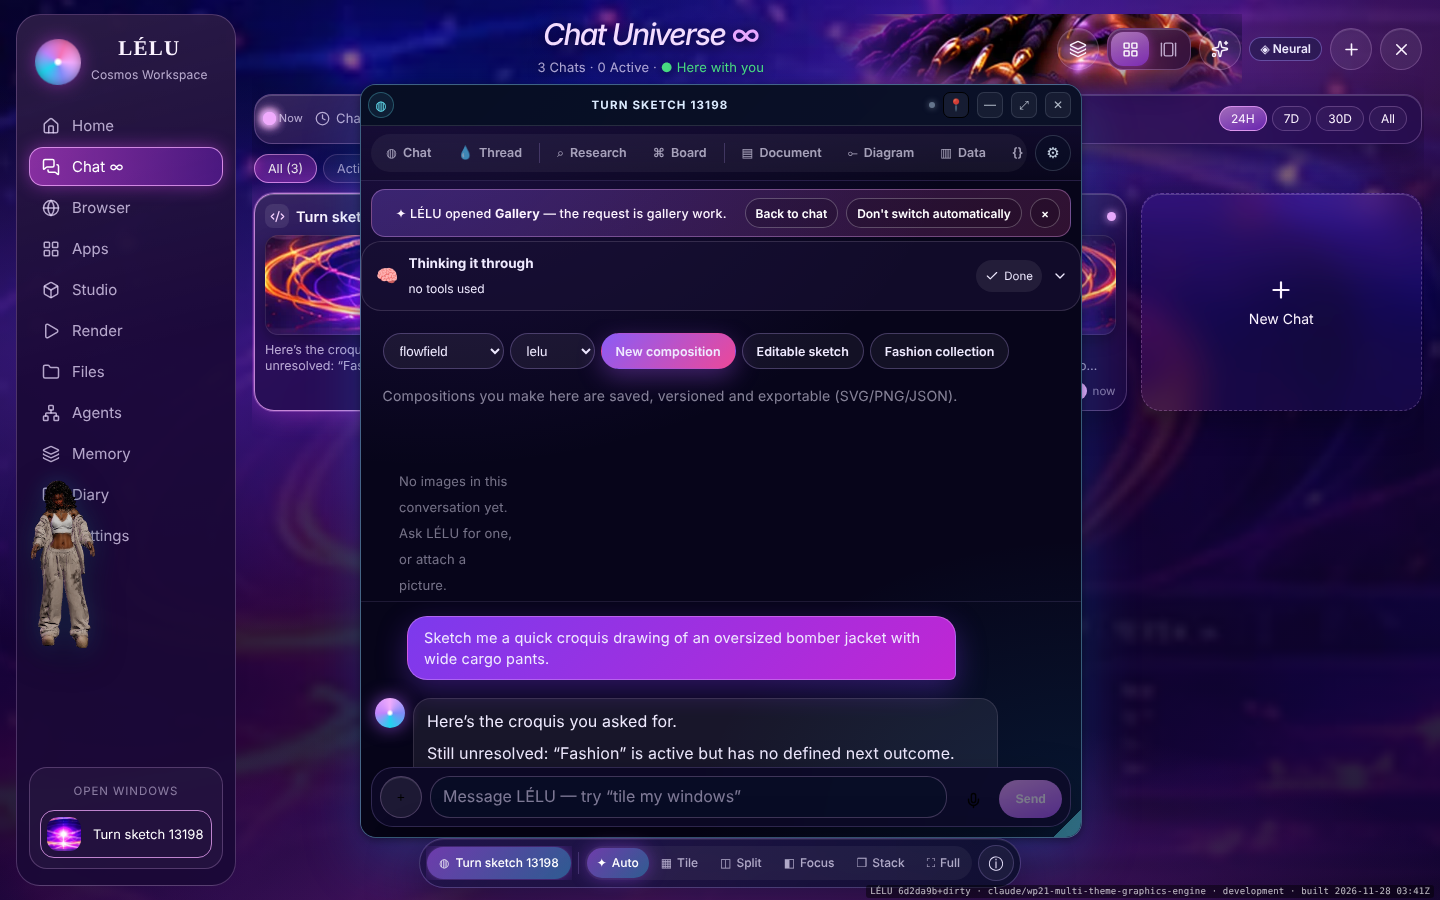
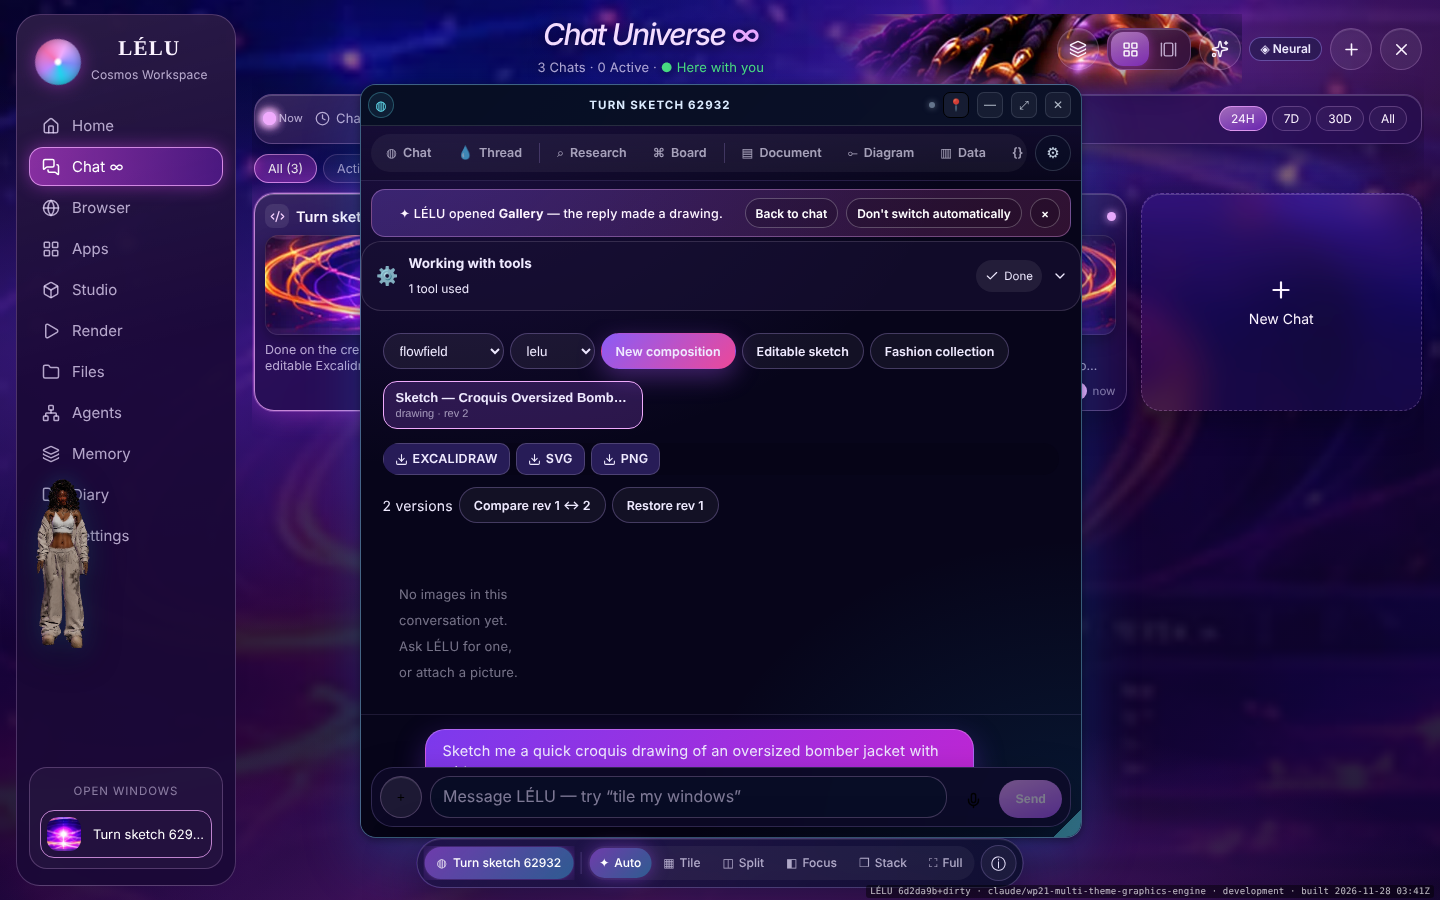
Sketches draw the garments that were asked for
The direct sketch was a fixed three-dress line-up whatever the request,
so 'a croquis of an oversized bomber jacket with wide cargo pants' gave
three dresses. It now draws one figure, front and back, with the
garments named: a boxy bomber with dropped shoulders, zip and rib hem, a
bralette, wide cargo pants with pockets and a stacked hem, or a skirt.
Rendered through the real drawing export (render-sketch.mjs).

Claude-Session: https://claude.ai/code/session_017r5V6N97c4ksPFc1eZj1j6

diff --git a/src/core/creative/kit/DirectCompiler.ts b/src/core/creative/kit/DirectCompiler.ts
@@ -101,12 +101,50 @@ const LELU_ARCHITECTURE = `flowchart LR
   spend["Spend policy: zero paid use without consent"] -.-> broker`;
 
 function sketchElements(subject: string): Array<Record<string, unknown>> {
-  const fashion = /\b(dress|gown|fashion|garment|outfit|couture|look|collection|jacket|coat|skirt)\b/i.test(subject);
+  const fashion = /\b(dress|gown|fashion|garment|outfit|couture|look|collection|jacket|coat|skirt|bomber|trousers|pants|bralette)\b/i.test(subject);
   const els: Array<Record<string, unknown>> = [
     { type: "rectangle", x: 0, y: 0, width: 760, height: 520, strokeColor: "#1e1e1e", backgroundColor: "transparent", roughness: 1 },
     { type: "text", x: 24, y: 18, text: titleCase(subject), fontSize: 28, strokeColor: "#1e1e1e" },
   ];
-  if (fashion) {
+  // A croquis of the garments actually named: front view and back view of one figure.
+  const named = {
+    jacket: /\b(bomber|jacket|coat|hoodie|puffer)\b/i.test(subject),
+    top: /\b(bralette|bra|crop ?top|top|corset)\b/i.test(subject),
+    trousers: /\b(trousers|pants|cargo|jeans|joggers)\b/i.test(subject),
+    skirt: /\b(skirt)\b/i.test(subject),
+    dress: /\b(dress|gown)\b/i.test(subject),
+  };
+  if (named.jacket || named.top || named.trousers || named.skirt) {
+    const ink = "#1e1e1e", fillA = "#b98cff", fillB = "#d4a94e", fillC = "#f4acb7";
+    ["front", "back"].forEach((view, k) => {
+      const cx = 220 + k * 320;
+      els.push({ type: "ellipse", x: cx - 16, y: 60, width: 32, height: 40, strokeColor: ink }, { type: "line", x: cx, y: 100, points: [[0, 0], [0, 18]], strokeColor: ink });
+      if (named.top) els.push({ type: "line", x: cx, y: 140, points: [[-34, 0], [34, 0], [26, 34], [-26, 34], [-34, 0]], strokeColor: ink, backgroundColor: fillC, fillStyle: "hachure" });
+      if (named.jacket)
+        els.push(
+          // boxy oversized body, dropped shoulders, balloon sleeves, rib hem and cuffs
+          { type: "line", x: cx, y: 118, points: [[-70, 6], [70, 6], [78, 150], [-78, 150], [-70, 6]], strokeColor: ink, backgroundColor: fillA, fillStyle: "cross-hatch", opacity: view === "front" ? 70 : 100 },
+          { type: "line", x: cx - 70, y: 124, points: [[0, 0], [-46, 40], [-62, 140], [-30, 150], [-12, 60]], strokeColor: ink, backgroundColor: fillA, fillStyle: "hachure" },
+          { type: "line", x: cx + 70, y: 124, points: [[0, 0], [46, 40], [62, 140], [30, 150], [12, 60]], strokeColor: ink, backgroundColor: fillA, fillStyle: "hachure" },
+          { type: "rectangle", x: cx - 78, y: 268, width: 156, height: 14, strokeColor: ink, backgroundColor: "#333333", fillStyle: "solid" },
+          ...(view === "front" ? [{ type: "line", x: cx, y: 124, points: [[0, 0], [0, 144]], strokeColor: ink, strokeStyle: "dashed" }] : []),
+        );
+      if (named.trousers)
+        els.push(
+          // wide legs with a stacked hem and cargo pockets
+          { type: "line", x: cx, y: 282, points: [[-56, 0], [56, 0], [80, 200], [10, 200], [0, 40], [-10, 200], [-80, 200], [-56, 0]], strokeColor: ink, backgroundColor: fillB, fillStyle: "cross-hatch" },
+          ...[-1, 1].flatMap((side) => [
+            { type: "rectangle", x: cx + side * 58 - 14, y: 380, width: 28, height: 34, strokeColor: ink },
+            { type: "line", x: cx + side * 45, y: 470, points: [[-30, 0], [30, 0]], strokeColor: ink, strokeStyle: "dotted" },
+            { type: "line", x: cx + side * 45, y: 478, points: [[-32, 0], [32, 0]], strokeColor: ink, strokeStyle: "dotted" },
+          ]),
+        );
+      else if (named.skirt) els.push({ type: "line", x: cx, y: 282, points: [[-50, 0], [50, 0], [90, 160], [-90, 160], [-50, 0]], strokeColor: ink, backgroundColor: fillB, fillStyle: "hachure" });
+      els.push({ type: "text", x: cx - 40, y: 492, text: view === "front" ? "Front" : "Back", fontSize: 16, strokeColor: ink });
+    });
+    if (named.trousers) els.push({ type: "arrow", x: 640, y: 440, points: [[0, 0], [-70, 30]], strokeColor: "#c4302b" }, { type: "text", x: 600, y: 410, text: "stacked hem", fontSize: 14, strokeColor: "#c4302b" });
+    if (named.jacket) els.push({ type: "arrow", x: 640, y: 150, points: [[0, 0], [-60, 20]], strokeColor: "#c4302b" }, { type: "text", x: 600, y: 120, text: "dropped shoulder", fontSize: 14, strokeColor: "#c4302b" });
+  } else if (fashion) {
     for (let k = 0; k < 3; k += 1) {
       const x = 90 + k * 230, flare = [70, 110, 50][k];
       els.push(
